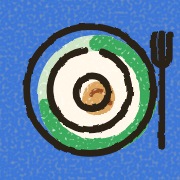
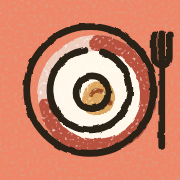
Nytt färgtema Persika: korall och aprikos i stället för iOS-grönt
Ringen och staplarna är korall, knapparna terrakotta och länkar och
"över 100" dov bärros. Bakgrunden är krämvit, och mörkt läge är varm
espresso i stället för helsvart. Varningarna är bärnsten, och toasten
och Öka kontrast har fått varma toner. Appikonen, theme-color och
manifestet följer med.

diff --git a/src/styles/tokens.css b/src/styles/tokens.css
@@ -1,24 +1,26 @@
+/* Färgtema Persika: korall och aprikos på krämvitt, länkar och "över 100" i dov bärros.
+   Mörkt läge i varm espresso i stället för helsvart. */
 :root {
-  --bg: #f2f2f7;
-  --card: #ffffff;
-  --card-pressed: #e5e5ea;
-  --elevated: #ffffff;
-  --fill: rgba(118, 118, 128, 0.12);
-  --fill-strong: rgba(118, 118, 128, 0.2);
-  --label: #000000;
-  --label-2: rgba(60, 60, 67, 0.6);
-  --label-3: rgba(60, 60, 67, 0.3);
-  --separator: rgba(60, 60, 67, 0.18);
-  --accent: #34c759;
-  --accent-deep: #248a3d;
-  --accent-soft: rgba(52, 199, 89, 0.16);
-  /* Mörkare grönt för knappar med vit text (kontrast 5,3:1). */
-  --button: #1e7b34;
-  --tint: #007aff;
-  --danger: #ff3b30;
-  --bar: rgba(249, 249, 249, 0.82);
-  --scrim: rgba(0, 0, 0, 0.32);
-  --shadow: 0 8px 30px rgba(0, 0, 0, 0.12);
+  --bg: #f8f1ea;
+  --card: #fffcf9;
+  --card-pressed: #f1e6dd;
+  --elevated: #fffcf9;
+  --fill: rgba(130, 98, 84, 0.12);
+  --fill-strong: rgba(130, 98, 84, 0.2);
+  --label: #2b2118;
+  --label-2: rgba(92, 66, 54, 0.66);
+  --label-3: rgba(92, 66, 54, 0.32);
+  --separator: rgba(92, 66, 54, 0.16);
+  --accent: #f08668;
+  --accent-deep: #9e4358;
+  --accent-soft: rgba(240, 134, 104, 0.18);
+  /* Terrakotta för knappar med vit text (kontrast 4,9:1). */
+  --button: #b9513f;
+  --tint: #9e4358;
+  --danger: #d23a2f;
+  --bar: rgba(251, 246, 241, 0.84);
+  --scrim: rgba(43, 26, 18, 0.32);
+  --shadow: 0 8px 30px rgba(92, 50, 30, 0.12);
 
   --radius: 14px;
   --radius-lg: 20px;
@@ -34,22 +36,23 @@
 
 @media (prefers-color-scheme: dark) {
   :root {
-    --bg: #000000;
-    --card: #1c1c1e;
-    --card-pressed: #2c2c2e;
-    --elevated: #1c1c1e;
-    --fill: rgba(118, 118, 128, 0.24);
-    --fill-strong: rgba(118, 118, 128, 0.36);
-    --label: #ffffff;
-    --label-2: rgba(235, 235, 245, 0.6);
-    --label-3: rgba(235, 235, 245, 0.3);
-    --separator: rgba(84, 84, 88, 0.6);
-    --accent: #30d158;
-    --accent-deep: #1f9e40;
-    --accent-soft: rgba(48, 209, 88, 0.2);
-    --tint: #0a84ff;
+    --bg: #19120f;
+    --card: #271d19;
+    --card-pressed: #362a24;
+    --elevated: #271d19;
+    --fill: rgba(150, 120, 104, 0.24);
+    --fill-strong: rgba(150, 120, 104, 0.36);
+    --label: #f7efe9;
+    --label-2: rgba(245, 226, 214, 0.64);
+    --label-3: rgba(245, 226, 214, 0.3);
+    --separator: rgba(120, 95, 82, 0.55);
+    --accent: #ffbb98;
+    /* Ros i stället för bärros: skiljer sig från aprikosen och läses som text på --accent-soft. */
+    --accent-deep: #f07e8e;
+    --accent-soft: rgba(255, 187, 152, 0.12);
+    --tint: #f7a1b0;
     --danger: #ff453a;
-    --bar: rgba(22, 22, 24, 0.82);
+    --bar: rgba(30, 22, 18, 0.84);
     --scrim: rgba(0, 0, 0, 0.55);
     --shadow: 0 8px 30px rgba(0, 0, 0, 0.5);
   }
@@ -58,18 +61,18 @@
 /* Inställningen Öka kontrast i iOS. */
 @media (prefers-contrast: more) {
   :root {
-    --label-2: rgba(60, 60, 67, 0.85);
-    --label-3: rgba(60, 60, 67, 0.6);
-    --separator: rgba(60, 60, 67, 0.45);
-    --fill: rgba(118, 118, 128, 0.22);
+    --label-2: rgba(92, 66, 54, 0.92);
+    --label-3: rgba(92, 66, 54, 0.66);
+    --separator: rgba(92, 66, 54, 0.48);
+    --fill: rgba(130, 98, 84, 0.22);
   }
 }
 
 @media (prefers-contrast: more) and (prefers-color-scheme: dark) {
   :root {
-    --label-2: rgba(235, 235, 245, 0.85);
-    --label-3: rgba(235, 235, 245, 0.6);
-    --separator: rgba(140, 140, 145, 0.8);
-    --fill: rgba(118, 118, 128, 0.4);
+    --label-2: rgba(245, 226, 214, 0.9);
+    --label-3: rgba(245, 226, 214, 0.63);
+    --separator: rgba(170, 140, 125, 0.8);
+    --fill: rgba(150, 120, 104, 0.4);
   }
 }

diff --git a/src/styles/global.css b/src/styles/global.css
@@ -336,8 +336,14 @@ strong {
 }
 
 .row-star {
-  color: #ff9f0a;
+  color: #e39a2d;
   flex: none;
+}
+
+@media (prefers-color-scheme: dark) {
+  .row-star {
+    color: #f5b14e;
+  }
 }
 
 .row-name {
@@ -785,7 +791,7 @@ strong {
   padding: 10px 10px 10px 18px;
   min-height: 44px;
   border-radius: 999px;
-  background: rgba(28, 28, 30, 0.92);
+  background: rgba(43, 31, 26, 0.92);
   -webkit-backdrop-filter: blur(20px);
   backdrop-filter: blur(20px);
   color: #fff;
@@ -805,7 +811,7 @@ strong {
 
 @media (prefers-color-scheme: dark) {
   .toast {
-    background: rgba(58, 58, 60, 0.95);
+    background: rgba(72, 57, 50, 0.95);
   }
 }
 
@@ -821,7 +827,8 @@ strong {
   padding: 6px 12px;
   border-radius: 999px;
   background: rgba(255, 255, 255, 0.14);
-  color: var(--accent);
+  /* Toasten är alltid mörk, så Ångra har mörka lägets aprikos i båda lägena. */
+  color: #ffbb98;
   font-weight: 600;
 }
 
@@ -1222,7 +1229,7 @@ strong {
 
 @media (prefers-color-scheme: dark) {
   .segmented-thumb {
-    background: #636366;
+    background: #5e4b42;
   }
 }
 
@@ -1545,8 +1552,8 @@ strong {
 }
 
 .insight-icon.is-up {
-  background: rgba(255, 149, 0, 0.16);
-  color: #c76a00;
+  background: rgba(228, 152, 44, 0.16);
+  color: #94590b;
 }
 
 .insight-icon.is-steady {
@@ -1559,7 +1566,7 @@ strong {
     color: var(--accent);
   }
   .insight-icon.is-up {
-    color: #ff9f0a;
+    color: #f5b14e;
   }
 }
 
@@ -1710,6 +1717,13 @@ strong {
   background: var(--accent);
   border-color: var(--accent);
   transform: scale(1.05);
+}
+
+/* Accenten är ljus aprikos i mörkt läge, så bocken blir mörk för att synas. */
+@media (prefers-color-scheme: dark) {
+  .check.is-on {
+    color: var(--bg);
+  }
 }
 
 .reset-picks {
@@ -1982,7 +1996,7 @@ strong {
 }
 
 .care-card {
-  background: rgba(255, 149, 0, 0.12);
+  background: rgba(228, 152, 44, 0.12);
 }
 
 .backup-actions {
@@ -2208,7 +2222,7 @@ h1.large-title {
 
 .recovery-card {
   margin-bottom: 8px;
-  background: rgba(255, 149, 0, 0.14);
+  background: rgba(228, 152, 44, 0.14);
 }
 
 .recovery-card p {

diff --git a/index.html b/index.html
@@ -3,8 +3,8 @@
   <head>
     <meta charset="UTF-8" />
     <meta name="viewport" content="width=device-width, initial-scale=1, viewport-fit=cover" />
-    <meta name="theme-color" content="#F2F2F7" media="(prefers-color-scheme: light)" />
-    <meta name="theme-color" content="#000000" media="(prefers-color-scheme: dark)" />
+    <meta name="theme-color" content="#F8F1EA" media="(prefers-color-scheme: light)" />
+    <meta name="theme-color" content="#19120F" media="(prefers-color-scheme: dark)" />
     <meta name="apple-mobile-web-app-capable" content="yes" />
     <meta name="mobile-web-app-capable" content="yes" />
     <meta name="apple-mobile-web-app-status-bar-style" content="default" />

diff --git a/src/components/Ring.tsx b/src/components/Ring.tsx
@@ -2,7 +2,7 @@ import { useAnimatedNumber } from '../lib/hooks'
 
 type Props = { value: number; size?: number; stroke?: number; caption?: string; goal?: number }
 
-/** Aktivitetsring: ett varv är 100 poäng. Över 100 fortsätter ett andra varv i mörkare grönt. */
+/** Aktivitetsring: ett varv är 100 poäng. Över 100 fortsätter ett andra varv i --accent-deep. */
 export function Ring({ value, size = 220, stroke = 24, caption = 'av 100', goal = 100 }: Props) {
   const animated = useAnimatedNumber(value)
   const r = (size - stroke) / 2

diff --git a/vite.config.ts b/vite.config.ts
@@ -39,8 +39,8 @@ export default defineConfig({
         lang: 'sv',
         display: 'standalone',
         orientation: 'portrait',
-        background_color: '#F2F2F7',
-        theme_color: '#F2F2F7',
+        background_color: '#F8F1EA',
+        theme_color: '#F8F1EA',
         icons: [
           { src: 'icon-192.png', sizes: '192x192', type: 'image/png' },
           { src: 'icon-512.png', sizes: '512x512', type: 'image/png' },
